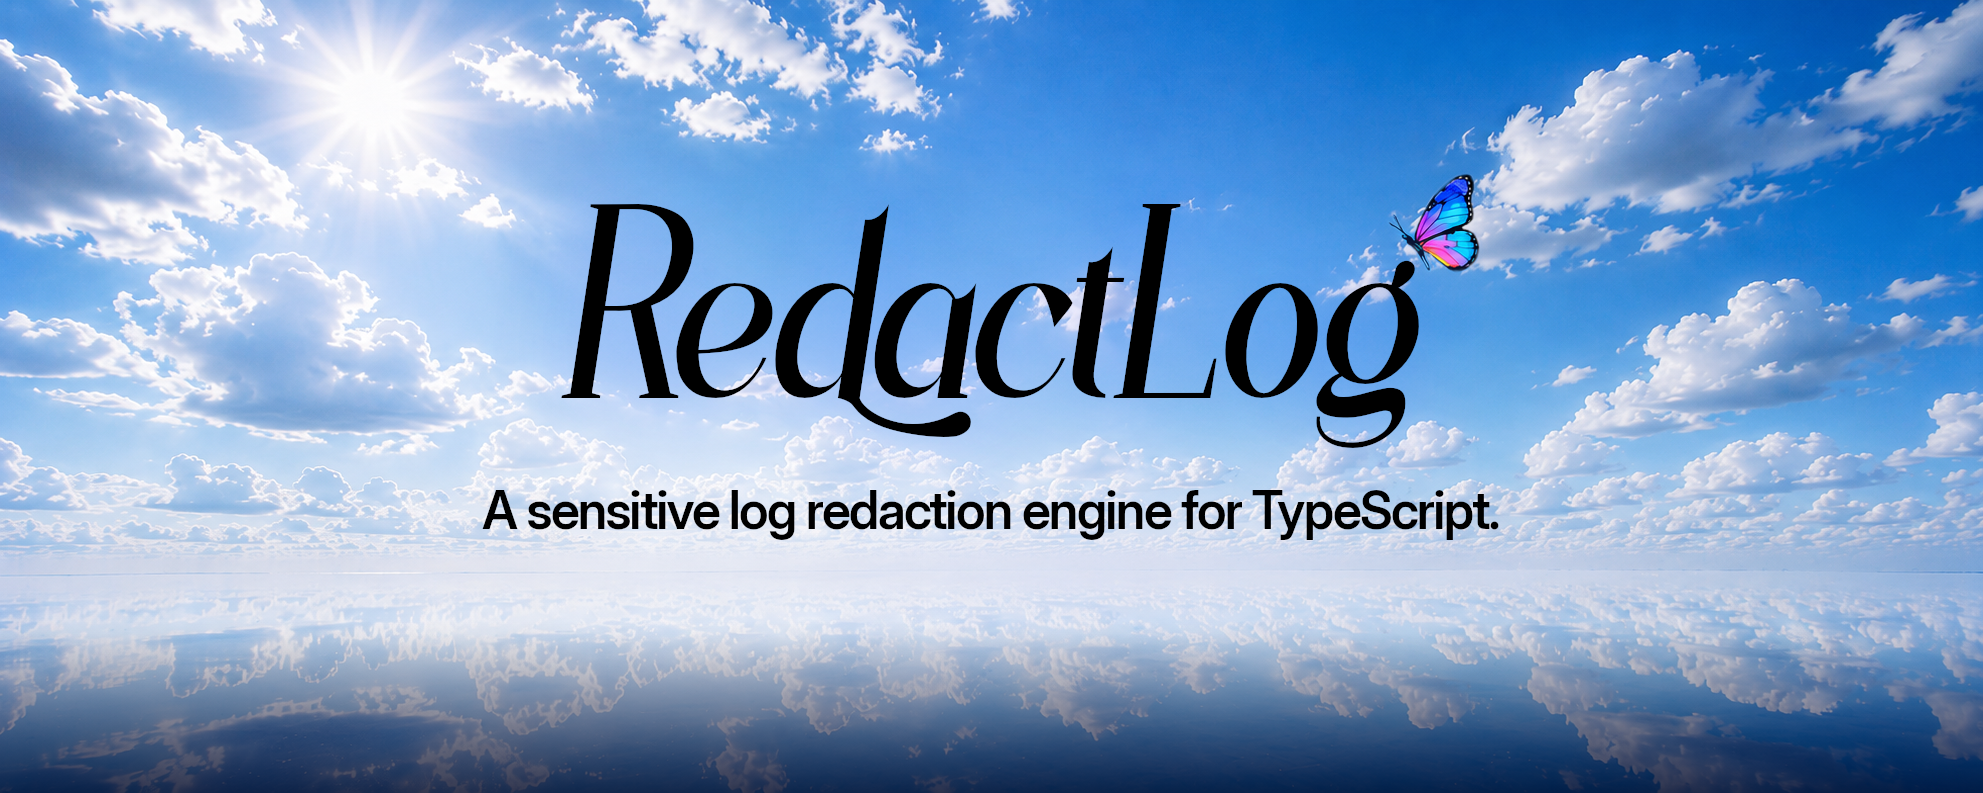
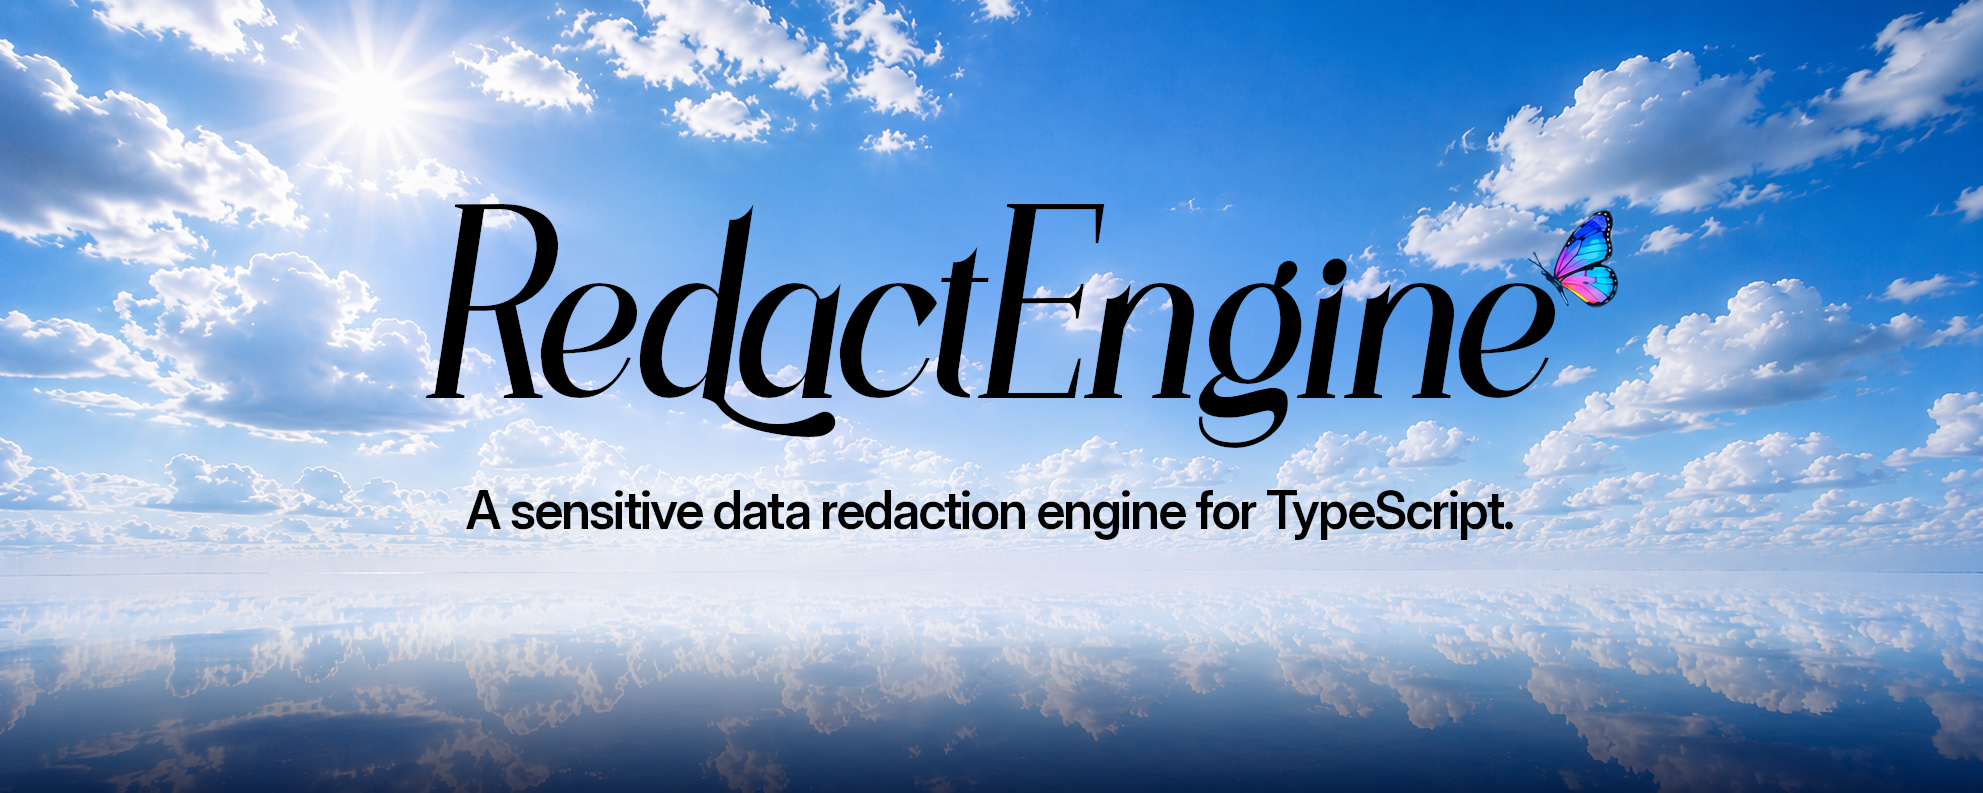
Rename package to redact-engine

Changed region(s): [[0.2153, 0.2119, 0.8306, 0.575], [0.2153, 0.6053, 0.769, 0.6961]]

diff --git a/src/index.ts b/src/index.ts
@@ -6,7 +6,7 @@ export {
   redactString,
   redactValue,
   stripeRedactionPreset,
-} from "./redact-log";
+} from "./redact-engine";
 
 export type {
   ConsoleLike,

diff --git a/src/types.ts b/src/types.ts
@@ -78,7 +78,7 @@ export type ConsoleLike = Partial<
 >;
 
 /**
- * Options for initializing a RedactLog custom Logger wrapper.
+ * Options for initializing a RedactEngine custom Logger wrapper.
  */
 export type LoggerOptions = RedactorOptions & {
   /** The underlying Console or target writer stream. */

diff --git a/README.md b/README.md
@@ -1,22 +1,22 @@
-<img src="https://raw.githubusercontent.com/cpauldev/redact-log/main/banner.png" alt="RedactLog Banner" width="100%" />
+<img src="https://raw.githubusercontent.com/cpauldev/redact-engine/main/banner.png" alt="RedactEngine Banner" width="100%" />
 
-# RedactLog: Redaction-First Logging for TypeScript
+# RedactEngine: Sensitive Data Redaction for TypeScript
 
-![TypeScript](https://img.shields.io/badge/-TypeScript-3178C6?style=flat-square&logo=typescript&logoColor=white) ![Logging](https://img.shields.io/badge/-Logging-4F46E5?style=flat-square) ![Console](https://img.shields.io/badge/-Console_Bridge-06B6D4?style=flat-square) ![License](https://img.shields.io/badge/-MIT_License-blue?style=flat-square) [![Changelog](https://img.shields.io/badge/Changelog-v0.1.1-blue?style=flat-square)](./CHANGELOG.md)
+![TypeScript](https://img.shields.io/badge/-TypeScript-3178C6?style=flat-square&logo=typescript&logoColor=white) ![Redaction](https://img.shields.io/badge/-Data_Redaction-4F46E5?style=flat-square) ![Console](https://img.shields.io/badge/-Console_Bridge-06B6D4?style=flat-square) ![License](https://img.shields.io/badge/-MIT_License-blue?style=flat-square) [![Changelog](https://img.shields.io/badge/Changelog-v0.1.1-blue?style=flat-square)](./CHANGELOG.md)
 
-RedactLog is a small, framework-agnostic TypeScript toolkit for removing secrets, credentials, cookies, JWTs, provider identifiers, and sensitive object fields before data reaches logs. It gives your app one redaction layer instead of relying on every callsite to remember what is safe to print.
+RedactEngine is a sensitive data redaction engine for TypeScript with recursive object sanitization, string masking, logger wrappers, console bridging, and safe error handling. It gives your app one redaction layer instead of relying on every callsite to remember what is safe to print.
 
 It is designed for developers building APIs, SaaS dashboards, CLIs, workers, billing flows, auth systems, or webhook handlers where logs are necessary but accidental secret exposure is costly. Use it when you want safe console output, structured logging inputs, provider-specific presets, and predictable handling for nested objects, `Error`, `Map`, `Set`, circular values, and max-depth limits.
 
 #### 🤖 Ask your coding assistant
 
-> "Audit my codebase to see if adding the `redact-log` package on npm is beneficial. If so, explain why and draft an integration plan identifying logger entrypoints, custom redaction rules, provider presets, and console bridge points using the package README and source code."
+> "Audit my codebase to see if adding the `redact-engine` package on npm is beneficial. If so, explain why and draft an integration plan identifying logger entrypoints, custom redaction rules, provider presets, and console bridge points using the package README and source code."
 
 ---
 
-## Why use RedactLog?
+## Why use RedactEngine?
 
-| Feature              | Without RedactLog                                                                | With **RedactLog**                                                                              |
+| Feature              | Without RedactEngine                                                                | With **RedactEngine**                                                                              |
 | :------------------- | :------------------------------------------------------------------------------- | :---------------------------------------------------------------------------------------------- |
 | **Sensitive Fields** | Every logger call needs manual filtering.                                        | 🛡️ **Sensitive Fields.** Central key-pattern redaction handles common secret names.             |
 | **Token Strings**    | Bearer tokens, JWTs, cookies, and assignment-style secrets can leak in messages. | 🎟️ **Token Strings.** String rules redact common token formats anywhere in text.                |
@@ -28,20 +28,20 @@ It is designed for developers building APIs, SaaS dashboards, CLIs, workers, bil
 
 ## Installation
 
-Install RedactLog via your preferred package manager:
+Install RedactEngine via your preferred package manager:
 
 ```bash
 # npm
-npm install redact-log
+npm install redact-engine
 
 # yarn
-yarn add redact-log
+yarn add redact-engine
 
 # pnpm
-pnpm add redact-log
+pnpm add redact-engine
 
 # bun
-bun add redact-log
+bun add redact-engine
 ```
 
 ---
@@ -49,7 +49,7 @@ bun add redact-log
 ## Quick Start
 
 ```ts
-import { createLogger, stripeRedactionPreset } from "redact-log";
+import { createLogger, stripeRedactionPreset } from "redact-engine";
 
 const logger = createLogger({
   level: "info",
@@ -83,7 +83,7 @@ Output values are redacted before they are passed to the underlying console sink
 ### Redact strings
 
 ```ts
-import { redactString } from "redact-log";
+import { redactString } from "redact-engine";
 
 redactString("Authorization: Bearer secret-token");
 // "Authorization: Bearer [REDACTED]"
@@ -92,7 +92,7 @@ redactString("Authorization: Bearer secret-token");
 ### Redact structured values
 
 ```ts
-import { redactValue } from "redact-log";
+import { redactValue } from "redact-engine";
 
 const safe = redactValue({
   email: "[email redacted]",
@@ -106,7 +106,7 @@ const safe = redactValue({
 ### Create a custom redactor
 
 ```ts
-import { createRedactor } from "redact-log";
+import { createRedactor } from "redact-engine";
 
 const redactor = createRedactor({
   keyPatterns: [/tenantSecret/i],
@@ -124,7 +124,7 @@ const safe = redactor.redactValue(payload);
 ### Bridge existing console calls
 
 ```ts
-import { createConsoleBridge, createLogger } from "redact-log";
+import { createConsoleBridge, createLogger } from "redact-engine";
 
 const logger = createLogger({ level: "warn" });
 const restoreConsole = createConsoleBridge(logger);

diff --git a/CHANGELOG.md b/CHANGELOG.md
@@ -4,7 +4,7 @@ All notable changes to this project will be documented in this file.
 
 ## [0.1.0] - 2026-06-25
 
-Initial release of `RedactLog`, a redaction-first logging toolkit for TypeScript applications.
+Initial release of `RedactEngine`, a redaction-first logging toolkit for TypeScript applications.
 
 ### Added
 